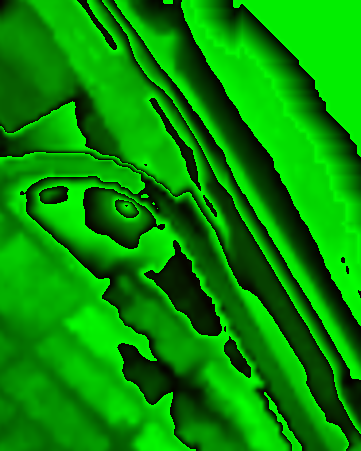
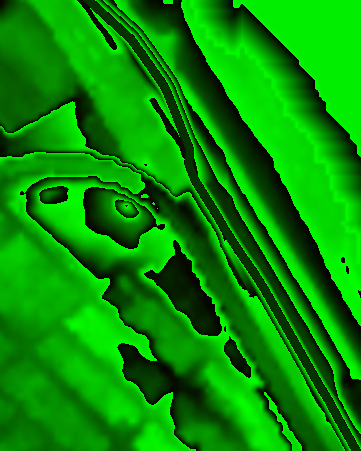
Myoden: raise the levee crest where the DEM predates the 2023 path
- DEM5A dips to TP 6.0 for ~380 m around the photo spot while the levee top is TP 8.3-8.5 on both sides
- Raise a 7 m crest to TP 8.4 with 1:2 slopes along the levee-top path ways; ramp climbs evenly
- Record the finding in MYODEN_DESIGN 6.3

Changed region(s): [[0.2438, 0.0, 1.0, 1.0]]

diff --git a/tools/geo/build_myoden.py b/tools/geo/build_myoden.py
@@ -27,6 +27,11 @@ N.NEAR, N.MID = NEAR, MID
 G, GROUND = B.G, B.GROUND
 MID_CLASSES = N.MID_CLASSES + ['industrial']   # 対岸の原木・高谷・二俣、河口の塩浜は工場・倉庫（OSM の landuse=industrial）
 PIPE_ID = 454774418          # OSM：妙典給水場からの水管橋（川をまたぐ水道管。空中写真でも明るい橋として写る）
+# 堤防の上の道（OSM）。標高データ（2023 年の道の開通より前の測量）は原点のまわり約 380 m だけ TP 6 m に下がっているが、
+# 前後の堤防の上は TP 8.3〜8.5 m で、360° 写真（2025 年）でも道は高い堤防の上にある。この区間の堤防の上を TP 8.4 m に上げる
+LEVEE_TOP_IDS = (210577374, 1126425114, 1126425115)
+RAMP_ID = 995263365     # 堤防の上へ上がる坂道（川側の低い道から）
+LEVEE_TP = 8.4
 PHOTO_POINT = (0.0, 0.0)     # 360° 写真の位置（原点）。向き 104°、見下ろし 2.6°
 log = B.log
 BRIDGE_IDS = {'東京メトロ東西線': 'tozai-line', '船橋行徳線': 'myoden-bridge', '東京湾岸道路': 'route-357', 'JR京葉線': 'jr-keiyo',
@@ -159,6 +164,56 @@ def landmarks(osm, dem, photo):
     return out
 
 
+def _seg_proj(px, pz, ax_, az_, bx_, bz_):
+    dx, dz = bx_ - ax_, bz_ - az_
+    L2 = dx * dx + dz * dz or 1e-9
+    t = max(0.0, min(1.0, ((px - ax_) * dx + (pz - az_) * dz) / L2))
+    return math.hypot(px - ax_ - dx * t, pz - az_ - dz * t), t
+
+
+def raise_levee(near, wet, osm, half=3.5, slope=0.5):
+    """堤防の上の道に沿って、上面（幅 7 m）を TP 8.4 m、両側を 1:2 の斜面にする（低い所だけ上げる。削らない）。
+    坂道は、下の端の高さから堤防の上まで一様に上がる。"""
+    nw, nh = NEAR['w'], NEAR['h']
+    byid = {e['id']: e for e in osm if e.get('type') == 'way'}
+    lines = []
+    for i in LEVEE_TOP_IDS:
+        e = byid.get(i)
+        if e and e.get('geometry'):
+            lines.append(([ll2local(p['lat'], p['lon']) for p in e['geometry']], None))
+    r = byid.get(RAMP_ID)
+    if r and r.get('geometry'):
+        pts = [ll2local(p['lat'], p['lon']) for p in r['geometry']]
+        lines.append((pts, 'ramp'))
+    H = lambda x, z: near[(round(z) - NEAR['z0']) * nw + (round(x) - NEAR['x0'])]
+    raised = 0
+    for pts, kind in lines:
+        # 坂道：線に沿った距離で、始まり（低い方）の地面から終わり（堤防の上）へ
+        cum = [0.0]
+        for a, b in zip(pts, pts[1:]):
+            cum.append(cum[-1] + math.dist(a, b))
+        total = cum[-1]
+        inside = lambda x, z: NEAR['x0'] <= x < NEAR['x0'] + nw and NEAR['z0'] <= z < NEAR['z0'] + nh
+        lo = H(*pts[0]) if kind == 'ramp' and inside(*pts[0]) else LEVEE_TP
+        reach = half + (LEVEE_TP - 2.0) / slope
+        for k, ((ax_, az_), (bx_, bz_)) in enumerate(zip(pts, pts[1:])):
+            x0, x1 = int(min(ax_, bx_) - reach), int(max(ax_, bx_) + reach) + 1
+            z0, z1 = int(min(az_, bz_) - reach), int(max(az_, bz_) + reach) + 1
+            seg = math.dist((ax_, az_), (bx_, bz_))
+            for z in range(max(z0, NEAR['z0']), min(z1, NEAR['z0'] + nh)):
+                for x in range(max(x0, NEAR['x0']), min(x1, NEAR['x0'] + nw)):
+                    j, i = z - NEAR['z0'], x - NEAR['x0']
+                    if wet[j][i]:
+                        continue
+                    d, t = _seg_proj(x, z, ax_, az_, bx_, bz_)
+                    crest = LEVEE_TP if kind != 'ramp' else lo + (LEVEE_TP - lo) * (cum[k] + seg * t) / total
+                    h = crest - max(0.0, d - (half if kind != 'ramp' else 2.5)) * slope
+                    if h > near[j * nw + i] + 0.01:
+                        near[j * nw + i] = h
+                        raised += 1
+    log(f'levee raised: {raised} cells to TP {LEVEE_TP}')
+
+
 def main():
     assert SITE_NAME == 'myoden'
     os.makedirs(OUT, exist_ok=True)
@@ -168,6 +223,7 @@ def main():
     photo = B.Photo()
     log('near heights ...')
     near, wet = N.near_heights(dem)
+    raise_levee(near, wet, osm)
     log('ground classes ...')
     cls = N.build_ground(dem, photo, wet)
     log('landmarks ...')

diff --git a/docs/MYODEN_DESIGN.md b/docs/MYODEN_DESIGN.md
@@ -24,7 +24,7 @@
 
 | 項目 | 値 |
 |---|---|
-| 堤防の上 | TP 7.5 m（自転車・歩行者道。OSM の線を幅 4 m の舗装に） |
+| 堤防の上 | TP 8.4 m（自転車・歩行者道。OSM の線を幅 4 m の舗装に）。6.3 節のとおり、標高データの古い区間を上げた |
 | 川側 | 堤防の上から 6 m で TP 約 6 m の段、そこから芝の斜面で下り、40〜50 m 先の水際の道（TP 約 2.5 m）、その先は干潟と水（原点の断面で 117 m 先に標高データの水） |
 | 町側 | 16 m ほどで TP 約 3.5 m（東西線の車両基地・道路）。北西は妙典公園 |
 | 水面 | TP 1.0 m。潮の入る区間（干満 ±1 m）で、360° 写真では水が芝の縁まで来ていたので、満ち潮に近い高さにした |
@@ -71,7 +71,7 @@
 | 確認 | 結果 |
 |---|---|
 | ループの継ぎ目 | 5 視点とも、t と t + 6 秒の描画が全画素一致（見直しのあとも）。半周期ずらすと 32〜1,742 画素が違う（動いている） |
-| 速さ | 1 コマ 1.4〜2.8 ms（360° 写真を見渡した見直しのあと） |
+| 速さ | 1 コマ 1.1〜2.8 ms（堤防の高さの見直しのあと） |
 | エラー | なし |
 
 ## 6.1 実際の写真を参考にした見直し（2026-10-19）
@@ -97,12 +97,27 @@
 | 194°（町側） | 芝の斜面の下は柵と東西線の車両基地の線路。木は無い | 堤防の町側のすぐ下（40 m）の木を除く |
 | 285°（町側） | 水管橋のトラスが堤防の陸側へ続き、車両基地の上を渡る。下に淡い水色の水道管 | トラスを陸側へ 80 m のばし、水道管を淡い水色に |
 
+## 6.3 堤防の高さの見直し（2026-10-19）
+
+360° 写真では道が高い堤防の上にあるのに、場面では道のまわりが平らに見えていたので、地形を調べ直しました。
+
+- 国土地理院の 1 m の標高データ（DEM1A）はこの場所に無く、使えるのは 5 m（DEM5A）だけ。
+- 堤防の上の道（OSM の自転車・歩行者道）に沿って標高データを読むと、上流・下流とも **TP 8.3〜8.5 m** なのに、原点のまわりの約 380 m（上流 150 m〜下流 230 m）だけ **TP 6.0 m** に下がっていた。
+- この区間の下流側の道は OSM で **2023 年 3 月 31 日の開通**（way 1126425114・1126425115）。水管橋・東西線の鉄橋もこの区間にあり、標高データの測量のあとに堤防が整備されたと考えられる。360° 写真（2025 年）でも、道の両側は斜面で下がっている。
+
+| 直したこと | 内容 |
+|---|---|
+| 堤防の上 | 堤防の上の道（OSM way 210577374・1126425114・1126425115）に沿って、上面（幅 7 m）を TP 8.4 m（前後の区間と同じ）、両側を 1:2 の斜面に。低い所だけ上げ、ほかは標高データのまま |
+| 坂道 | 川側の低い道から上がる坂道（way 995263365）は、下の端の高さから堤防の上まで一様に上がる |
+| 結果 | 原点の断面：堤防の上 TP 8.4 m（前は道の所で 6.8〜7.4 m の山なり）、川側は TP 6 m の段まで、町側は TP 3.5 m の車両基地まで、どちらも斜面で下がる |
+
 ## 7. わかっていないこと・割り切ったこと
 
 - 写真の **ピンクの夕焼け雲** は、空の作りが同じなのでありません。
 - 写真には煙突が何本か写っていますが、OSM に煙突の情報がなく、場所がわかったのはクリーンセンターの 1 本だけです（高さも推定）。ほかの煙突は作っていません。
 - 写真の水際にあった **赤白の柱**（量水標か標識）と、堤防の上の道の **白い線** は作っていません。
 - 妙典橋・水管橋の高さは推定です。写真の妙典橋の **街灯** は作っていません。妙典橋は 🚲 の視点では目の高さとほぼ同じで、目立ちません。
+- 堤防の上の高さ TP 8.4 m は、前後の区間の標高データからの推定です（整備後の測量値は確かめていません）。
 - 水面は満ち潮に近い TP 1.0 m の一定の高さです（潮の満ち引きは動かしていません）。
 - 対岸は OSM の工場地区だけを倉庫にしています。工場地区の書き込みのない所は家並みのままです。
 - 東西線の車両基地（町側）の線路・架線・柵と車両は作っていません（家を置かない空き地にしてあります）。
